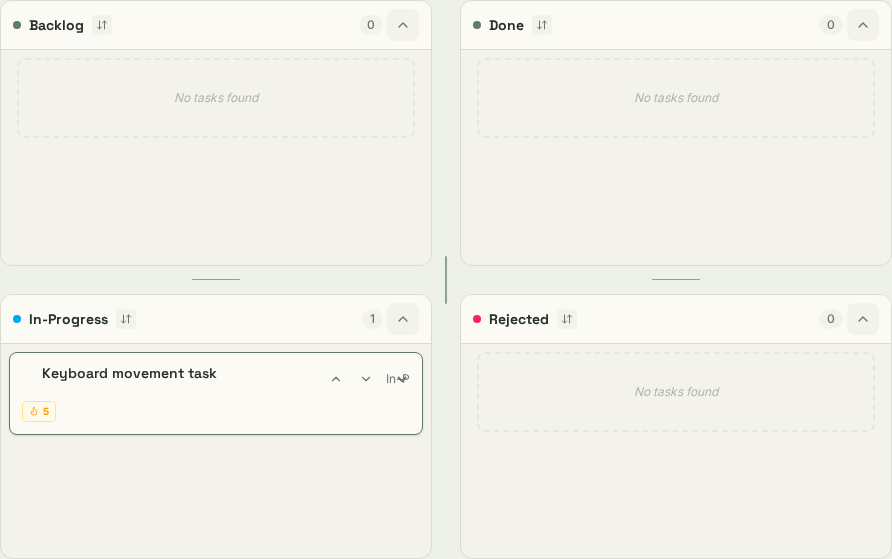
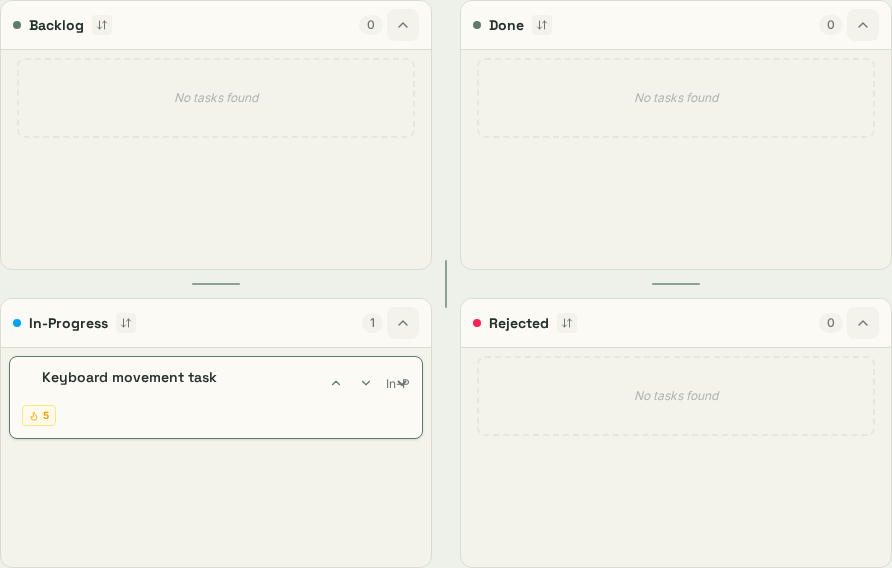
fixed e2e after header update

diff --git a/e2e/app.spec.ts b/e2e/app.spec.ts
@@ -529,9 +529,8 @@ test('searches tasks and applies scheduling, timer, status, and navigation comma
   await expect(page.getByTestId('board-column-backlog')).toContainText(title);
 
   const openPalette = async (query: string) => {
-    const trigger = page.getByRole('button', { name: 'Open command palette' });
-    await trigger.click();
-    await expect(trigger).toHaveAttribute('aria-expanded', 'true');
+    await page.keyboard.press('Control+K');
+    await expect(page.getByRole('dialog', { name: /command palette/i })).toBeVisible();
     const input = page.locator('input[aria-label="Search commands"]');
     await expect(input).toBeVisible();
     await input.fill(query);
@@ -978,6 +977,7 @@ test('enables monk mode and switches visual theme', async ({ page }) => {
 });
 
 test('uses the shared themed dropdown surface for filters and profiles', async ({ page }) => {
+  await page.setViewportSize({ width: 1600, height: 900 });
   await page.goto('/');
 
   await page.getByTestId('active-profile-control').click();